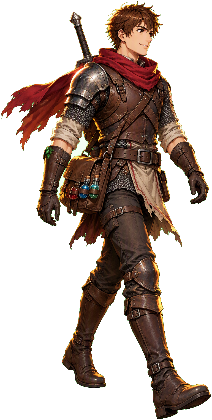
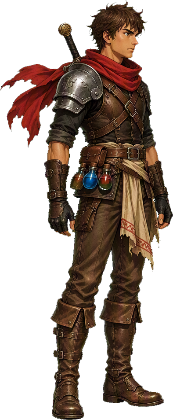
feat: ground the cast on each room's painted floor and fix walk identity
O elenco flutuava fora do chão porque as três faixas de profundidade usavam
uma régua única herdada do respiro da UI, e não a linha de chão pintada em
cada sala. Cada arte agora declara seu próprio piso, e o passo deixou de
alternar duas poses de personagens diferentes: cada freguês tem três poses do
mesmo corpo, trocadas na cadência de um deslocamento proporcional ao tamanho.

diff --git a/README.md b/README.md
@@ -36,7 +36,7 @@ O projeto prioriza conteúdo original, opções de acessibilidade e desenvolvime
 - **Economia dinâmica reativa**: o mercado acompanha o seu movimento. Estoque encalhado derruba preço, demanda alta empurra para cima, e o boletim diário da recepção mostra ofertas e produtos em alta antes de você decidir o que fabricar.
 - **Expedições por raridades**: quatro rotas destravadas por dia de loja, com custo em ouro, duração, risco e botim variável. Raridades viram catalisadores de sorte na forja; contratempo no caminho traz perda de estoque, fúria ou reputação. Logística abre a segunda vaga e encurta a viagem.
 - **Santuário de artefatos**: rituais que dão buffs temporários, aliviam penalidades (dissipam a fúria, recuperam item roubado) e harmonizam relíquias guardadas.
-- **Cenário vivo**: o elenco é de corpo inteiro e anda pela própria arte de fundo — entra pela porta, cruza o salão em três planos de profundidade com passo animado (pose parada e pose de meio de passo alternadas) e para diante do balcão, com sombra de contato. Os móveis pintados de cada sala viram uma camada de oclusão recortada da própria arte, então quem passa por trás do balcão some de cintura para baixo em vez de andar por cima dele. A protagonista respira, gira, troca para a pose inclinada e se debruça sobre o caixa quando alguém encosta nele. Cada setor tem sua sala pintada; onde só existe close de rosto, o elenco sai de cena com fade e a equipe da sala nova entra pelo fundo.
+- **Cenário vivo**: o elenco é de corpo inteiro e anda pela própria arte de fundo — entra pela porta, cruza o salão em três planos de profundidade e para diante do balcão, com sombra de contato. Cada personagem tem três poses do mesmo corpo (perna junta e dois meios de passo) que trocam na cadência do passo, e a velocidade de deslocamento é proporcional ao tamanho do sprite, então ninguém desliza nem corre parado. O pé de cada faixa de profundidade pisa na linha de chão pintada daquela sala, e os móveis viram uma camada de oclusão recortada da própria arte: quem passa por trás do balcão some de cintura para baixo em vez de andar por cima dele. Onde o balcão ocupa o salão inteiro (recepção), o transeunte patrulha o piso visível e volta, em vez de atravessar sumido atrás do móvel. A protagonista respira, gira, troca para a pose inclinada e se debruça sobre o caixa quando alguém encosta nele. Cada setor tem sua sala pintada; onde só existe close de rosto, o elenco sai de cena com fade e a equipe da sala nova entra pelo fundo.
 - **Cartas colecionáveis**: dezesseis cards em três coleções (Fregueses, A Chefa, A Casa) com quatro raridades. Pacotes à venda na recepção, brinde a cada conquista nova, cartas repetidas viram ouro e completar coleção rende bônus. O arquivo fica na biblioteca.
 - **Campanha em sete capítulos** (`campaign.gd`): a recepção mostra o objetivo atual com a lista do que falta, e cada capítulo concluído paga ouro, reputação, experiência e às vezes pacote de cartas. O último capítulo abre a tela final do império, que soma 1200 pontos na pontuação e libera a conquista correspondente; depois disso o balcão continua aberto em modo livre.
 - **Integração opcional com a Steam** (`steam_bridge.gd`): conquistas, itens de card no inventário, placar de melhor negócio e save na nuvem pelo Auto-Cloud. Sem o plugin Steamworks instalado, cada chamada vira no-op e o jogo usa o placar local de `user://hall_of_fame.cfg` — nenhuma funcionalidade depende da loja.
